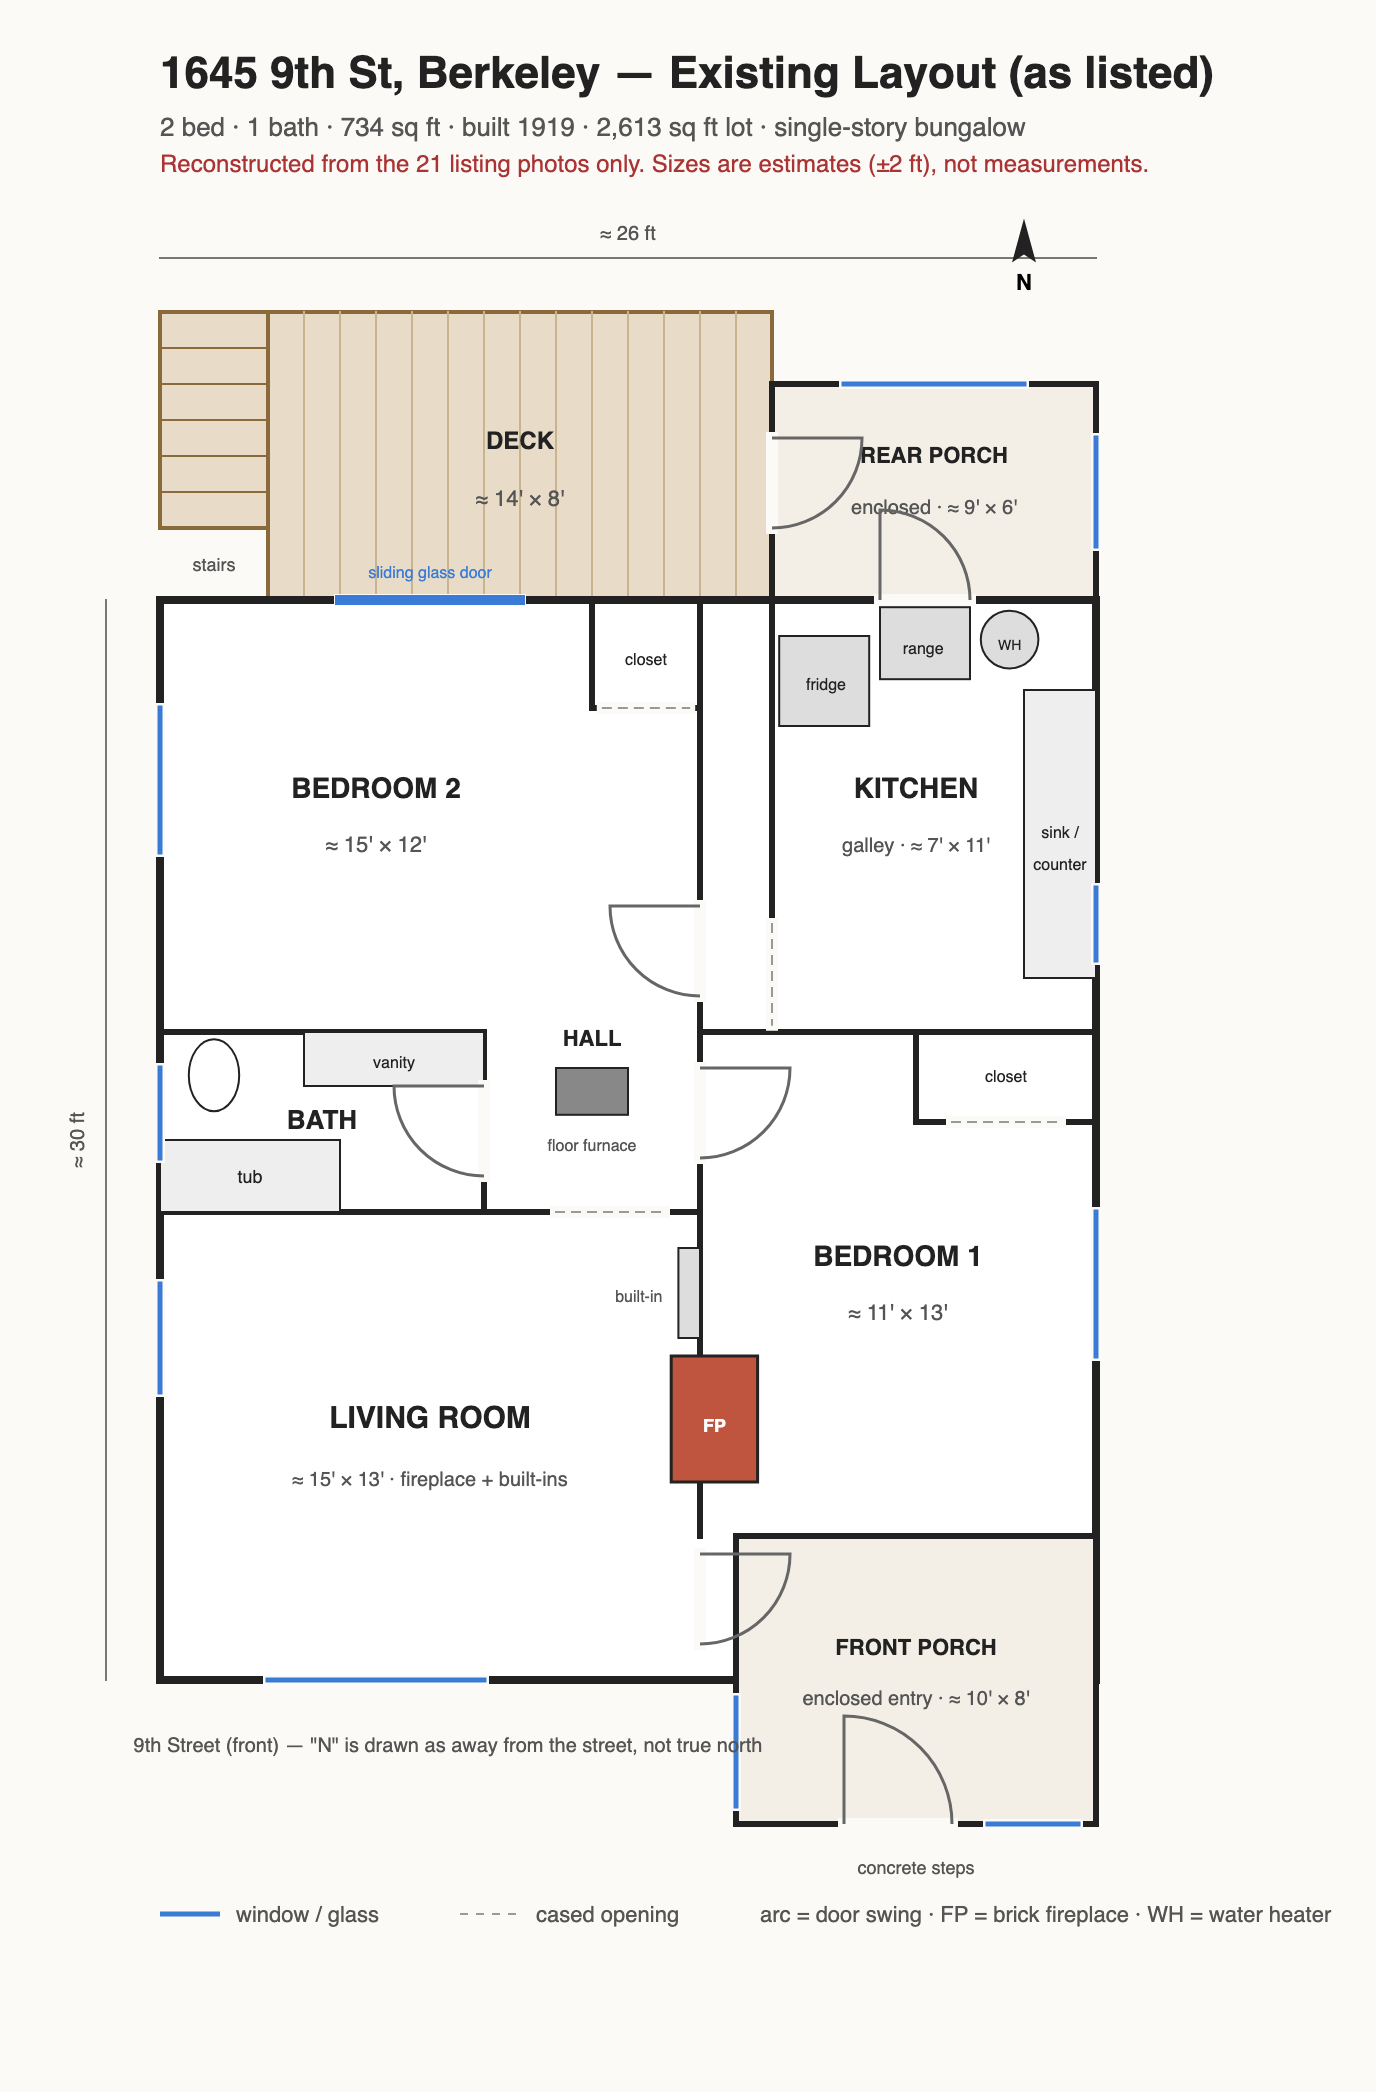
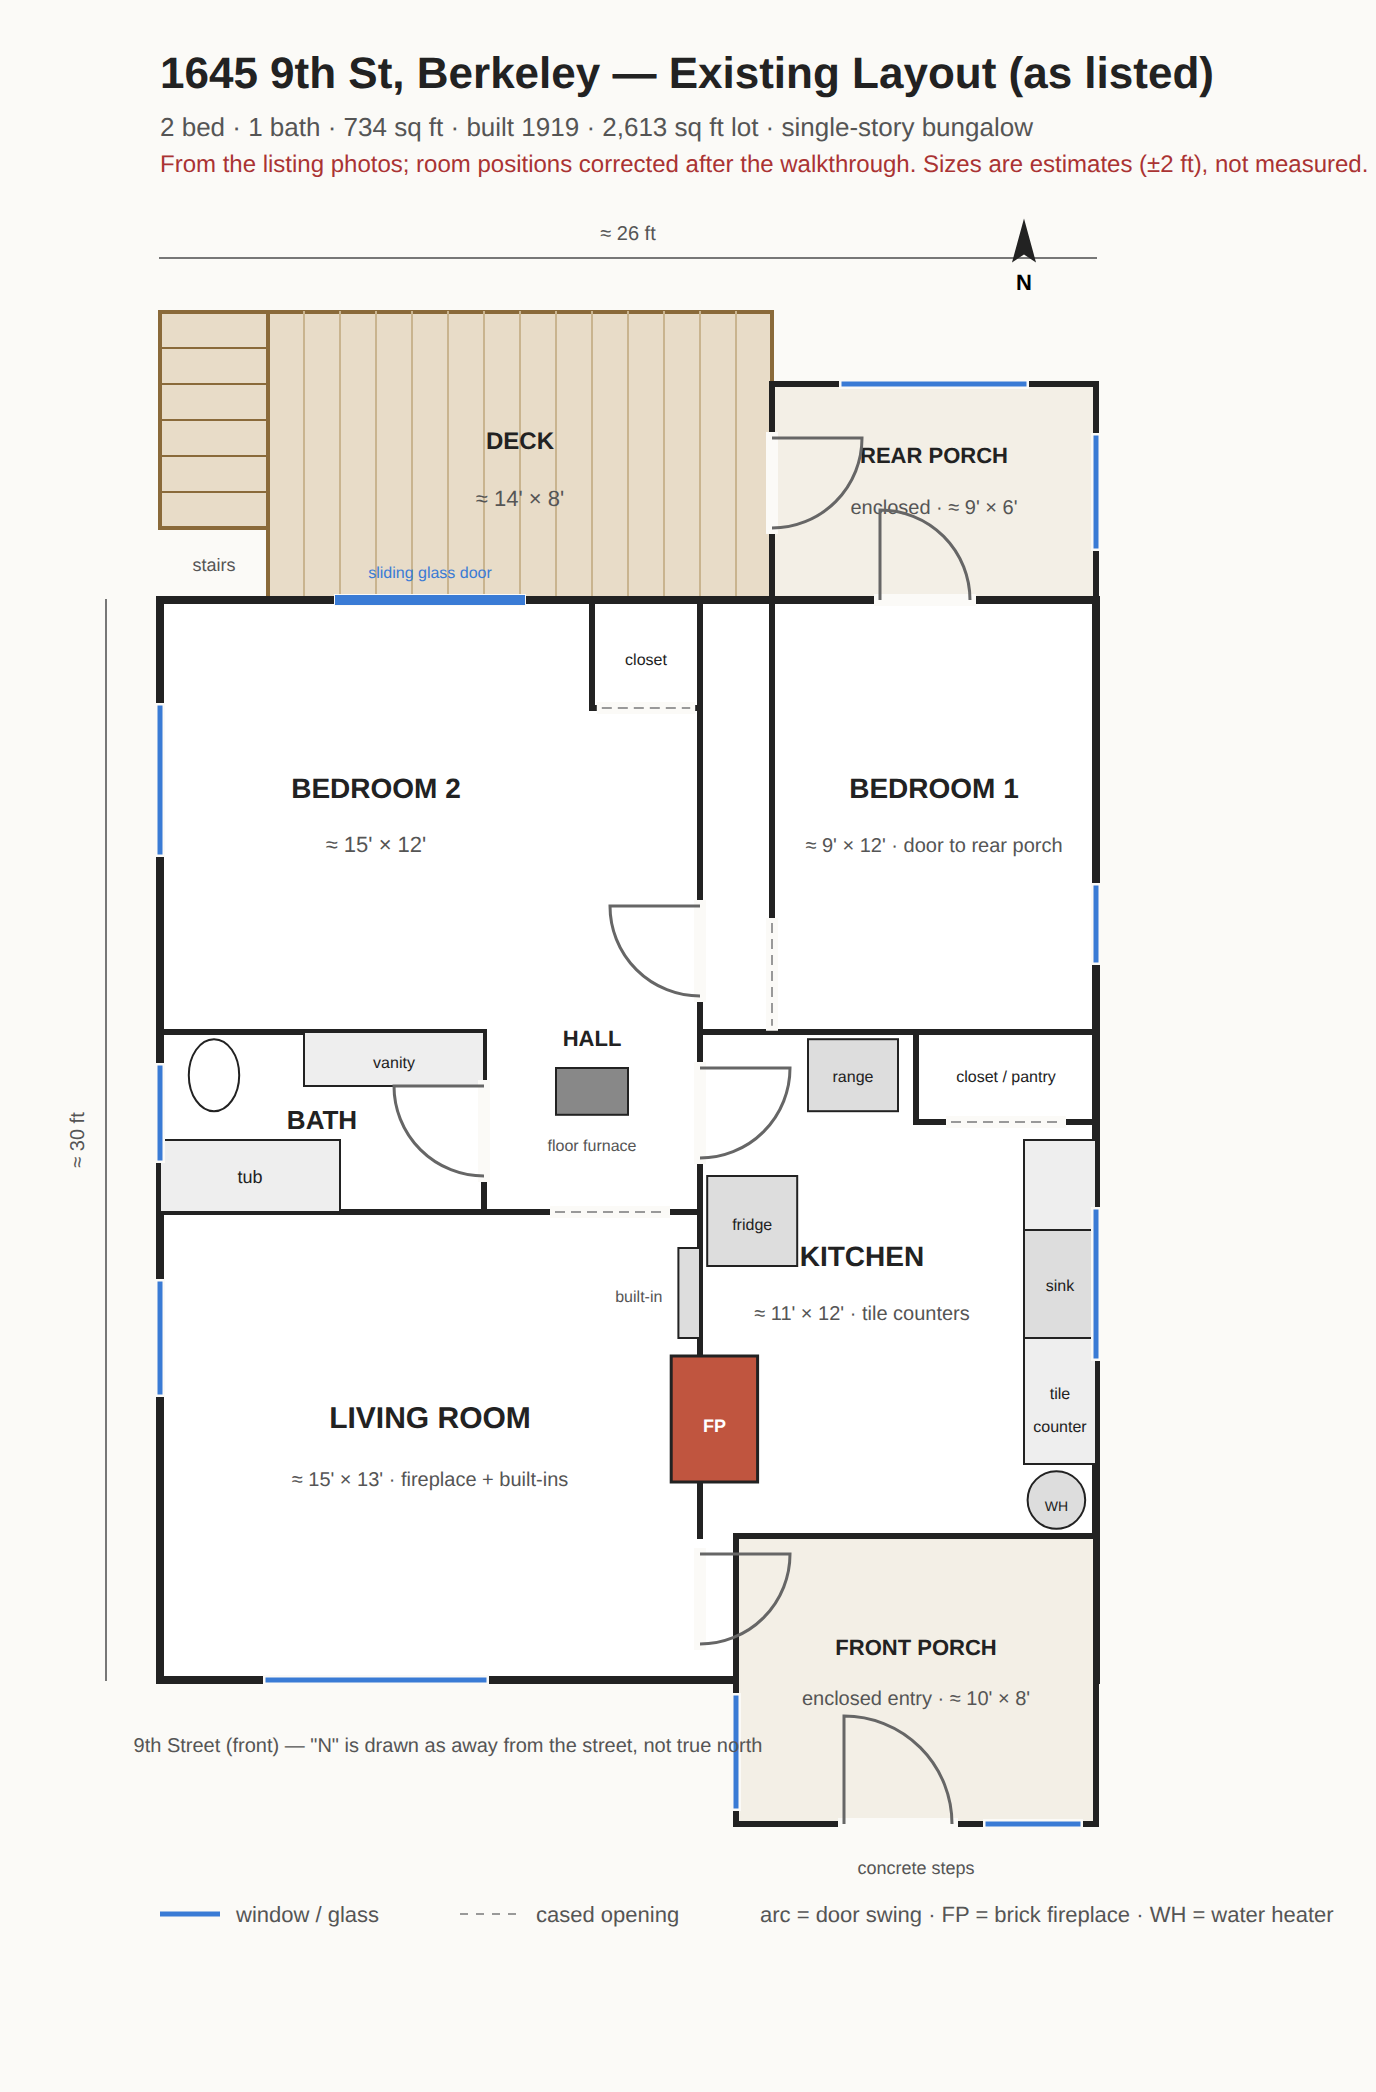
Correct existing plan: front-right room is the kitchen, bedroom 1 is rear-right
The first draft had the kitchen and bedroom 1 swapped. Per Keith's
walkthrough note, the room behind the front porch is the kitchen today
and the small rear-right room off the rear porch is bedroom 1.

- generate.py: existing sheet draws kitchen fixtures in the front-right
  room and labels the rear-right room bedroom 1; proposed sheet keeps
  its geometry (kitchen to rear-left, rear-right bedroom gains a closet)
  but the front-right room is now labeled bedroom 1 / former kitchen,
  with a two-line header explaining the move.
- Regenerated SVGs and PNGs. On Linux the PNGs are exported with
  Playwright's headless shell; chromium --headless=new clips the legend.
- CLAUDE.md, index.html: updated layout description, photo index,
  proposed-changes list, open questions, and the Linux export command.

Claude-Session: https://claude.ai/code/session_01QP4ZkLkW7cUrZ9x3HXMY7H

diff --git a/index.html b/index.html
@@ -34,18 +34,18 @@ table{border-collapse:collapse;font-size:14px}td,th{padding:4px 12px 4px 0;text-
 <div class="plan">
 <a id="plan-link" href="floor-plan/existing.png" target="_blank"><img id="plan-img" src="floor-plan/existing.png" alt="floor plan"></a>
 </div>
-<p class="sub" style="margin-top:8px">Reconstructed from listing photos, not measured. Room sizes are ±2 ft. Editable SVGs and the generator script are in <code>floor-plan/</code>.</p>
+<p class="sub" style="margin-top:8px">Reconstructed from listing photos, not measured; room positions corrected Sept 9 (front-right room is the kitchen today). Room sizes are ±2 ft. Editable SVGs and the generator script are in <code>floor-plan/</code>.</p>
 <div class="notes">
 <strong>Proposed changes</strong>
 <ul>
-<li><strong>Swap kitchen and bedroom 2.</strong> Kitchen moves to the rear-left room with the slider so it opens directly onto the deck. Becomes an eat-in kitchen, roughly 15 × 12. Bedroom 2 takes the old galley kitchen space, roughly 9 × 11, with a closet added.</li>
+<li><strong>Kitchen moves to the rear-left room with the slider</strong> so it opens directly onto the deck. Becomes an eat-in kitchen, roughly 15 × 12, sharing a wet wall with the bath.</li>
+<li><strong>Old kitchen (front-right, roughly 11 × 12) becomes bedroom 1.</strong> The rear-right bedroom stays a bedroom, becomes bedroom 2, roughly 9 × 11, with a closet added.</li>
 <li><strong>Rear porch becomes laundry / mudroom</strong>, still opening onto the deck. Water heater relocates there out of the kitchen. Open question: whether it's entered from bedroom 2, the deck only, or both.</li>
-<li>Living room, bedroom 1, bath, hall, and front porch unchanged in this pass.</li>
+<li>Living room, bath, hall, and front porch unchanged in this pass.</li>
 </ul>
 <strong>Open questions</strong>
 <ul>
-<li>Plumbing run for the new kitchen location (sink on the west wall vs. the bath side wall to share the wet wall with the bathroom).</li>
-<li>Bathroom position and bedroom 1 door placement in the existing plan are the least certain reads from the photos. Verify on a walkthrough.</li>
+<li>Room sizes and door placements are estimates from photos; no measured plan exists. Verify on the next visit.</li>
 <li>The termite report mentions a "rear half bathroom" vanity; the listing says one bath. Is there a second sink or half bath in the rear porch area?</li>
 </ul>
 <strong>Budget</strong>

diff --git a/floor-plan/generate.py b/floor-plan/generate.py
@@ -40,9 +40,10 @@ def build(variant):
     out.append(f'<text x="{OX}" y="44" font-size="22" font-weight="bold" fill="#222">1645 9th St, Berkeley — {title}</text>')
     out.append(f'<text x="{OX}" y="68" font-size="13" fill="#555">2 bed · 1 bath · 734 sq ft · built 1919 · 2,613 sq ft lot · single-story bungalow</text>')
     if proposed:
-        out.append(f'<text x="{OX}" y="86" font-size="12" fill="#1a7a3c">Change: kitchen and bedroom 2 swapped so the kitchen opens onto the deck. Everything else as existing.</text>')
+        out.append(f'<text x="{OX}" y="86" font-size="12" fill="#1a7a3c">Change: kitchen moves from the front-right room to the rear-left room with the slider, opening onto the deck.</text>')
+        out.append(f'<text x="{OX}" y="102" font-size="12" fill="#1a7a3c">Old kitchen becomes bedroom 1. Rear-right bedroom stays (now bedroom 2) and gains a closet.</text>')
     else:
-        out.append(f'<text x="{OX}" y="86" font-size="12" fill="#a33">Reconstructed from the 21 listing photos only. Sizes are estimates (±2 ft), not measurements.</text>')
+        out.append(f'<text x="{OX}" y="86" font-size="12" fill="#a33">From the listing photos; room positions corrected after the walkthrough. Sizes are estimates (±2 ft), not measured.</text>')
 
     # deck + stairs
     rect(3,-8,17,0,fill="#e8dcc8",stroke="#8a6a3a",sw=2)
@@ -80,16 +81,18 @@ def build(variant):
     label(4.5,14.7,"BATH",13); label(12,12.4,"HALL",11)
 
     if not proposed:
-        # bedroom 2 rear-left with slider; kitchen rear-right
+        # bedroom 2 rear-left with slider; bedroom 1 rear-right; kitchen front-right (per Keith, Sept 9)
         line(12,0,12,3); line(12,3,15,3); opening(12.3,3,14.7,3); label(13.5,1.8,"closet",8,False)
         door(15,8.5,2.5,'w'); opening(17,9,17,11.8); door(20,0,2.5,'n')
-        rect(17.2,1,19.7,3.5,fill="#ddd",stroke="#222",sw=1); label(18.5,2.5,"fridge",8,False)
-        rect(20,0.2,22.5,2.2,fill="#ddd",stroke="#222",sw=1); label(21.2,1.5,"range",8,False)
-        circle(23.6,1.1,0.8); label(23.6,1.4,"WH",7,False)
-        rect(24,2.5,26,10.5,fill="#eee",stroke="#222",sw=1); label(25,6.6,"sink /",8,False); label(25,7.5,"counter",8,False)
         line(5,0,10,0,stroke="#fbfaf7",sw=6); line(5,0,10,0,stroke="#3a7bd5",sw=5); label(7.5,-0.6,"sliding glass door",8,False,"#3a7bd5")
         label(6,5.5,"BEDROOM 2",14); label(6,7,"≈ 15' × 12'",11,False,"#555")
-        label(21,5.5,"KITCHEN",14); label(21,7,"galley · ≈ 7' × 11'",10,False,"#555")
+        label(21.5,5.5,"BEDROOM 1",14); label(21.5,7,"≈ 9' × 12' · door to rear porch",10,False,"#555")
+        # kitchen fixtures, front-right room
+        rect(24,15,26,24,fill="#eee",stroke="#222",sw=1); label(25,22.2,"tile",8,False); label(25,23.1,"counter",8,False)
+        rect(24,17.5,26,20.5,fill="#ddd",stroke="#222",sw=1); label(25,19.2,"sink",8,False)
+        rect(18,12.2,20.5,14.2,fill="#ddd",stroke="#222",sw=1); label(19.25,13.4,"range",8,False)
+        rect(15.2,16,17.7,18.5,fill="#ddd",stroke="#222",sw=1); label(16.45,17.5,"fridge",8,False)
+        circle(24.9,25,0.8); label(24.9,25.3,"WH",7,False)
     else:
         # kitchen rear-left, eat-in, opens to deck; bedroom 2 rear-right
         line(4,0,11,0,stroke="#fbfaf7",sw=6); line(4,0,11,0,stroke="#3a7bd5",sw=5); label(7.5,-0.6,"sliding / French door to deck",8,False,"#3a7bd5")
@@ -101,7 +104,7 @@ def build(variant):
         rect(12.3,0.2,14.8,2.2,fill="#ddd",stroke="#222",sw=1); label(13.55,1.4,"range",7,False)
         rect(5,4,10,7,fill="#f4e9d0",stroke="#8a6a3a",sw=1); label(7.5,5.8,"table / island",8,False,"#555")
         label(7.5,9.6,"KITCHEN (eat-in)",14); label(7.5,11,"≈ 15' × 12' · opens to deck",10,False,"#555")
-        # bedroom 2 (former kitchen)
+        # bedroom 2 (was bedroom 1; gains a closet)
         door(17,9,2.5,'e')                                      # hall -> bedroom 2
         line(17,0,17,3, stroke="#222"); line(17,3,20,3); line(20,0,20,3); opening(17.3,3,19.7,3); label(18.5,1.8,"closet",8,False)
         door(22,0,2.5,'n')                                      # bedroom 2 -> laundry/mudroom
@@ -110,7 +113,10 @@ def build(variant):
     # shared: bedroom 1, living room, doors
     door(9,13.5,2.5,'w'); door(15,13,2.5,'e'); opening(22,14.5,25,14.5); opening(11,17,14,17); door(15,26.5,2.5,'e')
     window(0,3,0,7); window(0,13,0,15.5); window(0,19,0,22); window(3,30,9,30); window(26,17,26,21); window(26,8,26,10)
-    label(20.5,18.5,"BEDROOM 1",14); label(20.5,20,"≈ 11' × 13'",11,False,"#555"); label(23.5,13.4,"closet",8,False)
+    if proposed:
+        label(19.5,18.5,"BEDROOM 1",14); label(19.5,20,"≈ 11' × 12' · former kitchen",10,False,"#555"); label(23.5,13.4,"closet",8,False)
+    else:
+        label(19.5,18.5,"KITCHEN",14); label(19.5,20,"≈ 11' × 12' · tile counters",10,False,"#555"); label(23.5,13.4,"closet / pantry",8,False)
     label(7.5,23,"LIVING ROOM",15); label(7.5,24.6,"≈ 15' × 13' · fireplace + built-ins",10,False,"#555")
     # dims / north / street / legend
     line(-1.5,0,-1.5,30,stroke="#777",sw=1); p=P(-2.1,15)

diff --git a/CLAUDE.md b/CLAUDE.md
@@ -28,10 +28,10 @@ Photos: `photos/1645-9th-st/` (21 images, Zillow gallery order, ~1440x960).
 Rough photo index:
 - 01–03 front exterior, 05 side yard, 21 backyard and deck
 - 04, 06, 07, 09 living room (brick fireplace, built-ins, picture rail)
-- 08, 10, 12 kitchen (galley, tile counter, water heater in kitchen)
+- 08, 10, 12 kitchen (front-right room behind the porch; tile counter, water heater in kitchen)
 - 11 rear enclosed porch (unfinished)
 - 13, 14 bathroom
-- 15, 16, 17 bedroom 1 (front, east side)
+- 15, 16, 17 bedroom 1 (rear-right, door to the rear porch)
 - 18, 19, 20 bedroom 2 (rear, sliding door to deck)
 
 ## Floor plans
@@ -41,15 +41,19 @@ Rough photo index:
 - `floor-plan/generate.py` — generates both SVGs; edit this, run it, then re-export PNGs with headless Chrome (see below)
 - `index.html` — shareable page with an existing/proposed toggle and both photo galleries, published at https://keithmancuso.github.io/1645-9th-st/
 
-The existing plan was reconstructed from the listing photos only, not measured. Treat room sizes as ±2 ft. Layout as drawn: living room front-left with fireplace on the wall shared with the front porch and bedroom 1; enclosed front porch front-right; bedroom 1 behind the porch; small central hall with a floor furnace; bathroom on the left; galley kitchen rear-right; bedroom 2 rear-left with a slider to the deck; unfinished enclosed rear porch off the kitchen. Bathroom position and bedroom 1 door placement are the least certain parts.
+The existing plan was reconstructed from the listing photos only, not measured. Treat room sizes as ±2 ft. Layout as drawn: living room front-left with fireplace on the wall shared with the front porch and the kitchen; enclosed front porch front-right; **kitchen behind the porch (front-right, ≈11×12)**; small central hall with a floor furnace; bathroom on the left; **bedroom 1 rear-right (≈9×12) with a door to the rear porch**; bedroom 2 rear-left with a slider to the deck; unfinished enclosed rear porch off bedroom 1. Bathroom position and door placements are the least certain parts.
 
-### Proposed changes (as of Sept 5, 2026)
+Correction, Sept 9: the first draft had the kitchen and bedroom 1 swapped (kitchen rear-right, bedroom 1 front-right). Keith confirmed after the walkthrough that the front-right room is the kitchen today. Room sizes still need checking against a real plan; none was found in the listing or the disclosure package.
 
-1. **Swap kitchen and bedroom 2.** Kitchen moves to the rear-left room with the slider so it opens directly onto the deck (eat-in, ≈15×12). Bedroom 2 takes the old galley kitchen space (≈9×11) with a closet added. Reason: don't want to walk through a bedroom to reach the yard.
-2. **Rear porch becomes laundry / mudroom**, still opening onto the deck; water heater relocates there. Open question: entered from bedroom 2, the deck only, or both.
-3. Living room, bedroom 1, bath, hall, front porch unchanged in this pass.
+### Proposed changes (as of Sept 9, 2026)
 
-Open questions: plumbing run for the relocated kitchen; verify bathroom position and bedroom 1 door on a walkthrough; confirm whether the termite report's "rear half bathroom" means there is a second sink/half bath in the rear porch area. The floor furnace is red-tagged by PG&E (Aug 2026) and comes out; heating will be mini-splits (see `BUDGET.md`).
+1. **Kitchen moves to the rear-left room with the slider** so it opens directly onto the deck (eat-in, ≈15×12). Reason: don't want to walk through a bedroom to reach the yard. The new kitchen shares its south wall with the bathroom, so the wet wall is shared.
+2. **Old kitchen (front-right, ≈11×12) becomes bedroom 1.** Its plumbing gets abandoned.
+3. **Rear-right bedroom stays a bedroom** and becomes bedroom 2 (≈9×11) with a closet added.
+4. **Rear porch becomes laundry / mudroom**, still opening onto the deck; water heater relocates there. Open question: entered from bedroom 2, the deck only, or both.
+5. Living room, bath, hall, front porch unchanged in this pass.
+
+Open questions: verify room sizes and door placements on the next visit (no measured plan exists); confirm whether the termite report's "rear half bathroom" means there is a second sink/half bath in the rear porch area, which now sits off bedroom 1. The floor furnace is red-tagged by PG&E (Aug 2026) and comes out; heating will be mini-splits (see `BUDGET.md`).
 
 ## Renovation reference — 2435 Valley St, Berkeley, CA 94702
 
@@ -76,4 +80,10 @@ Photos: `photos/2435-valley-st-reference/` (87 images, Zillow gallery order, 153
   cd floor-plan && python3 generate.py
   for v in existing proposed; do "/Applications/Google Chrome.app/Contents/MacOS/Google Chrome" --headless=new --disable-gpu --hide-scrollbars --force-device-scale-factor=2 --window-size=688,1046 --screenshot="$PWD/$v.png" "file://$PWD/$v.svg"; done
   ```
+- On Linux (Claude Code on the web), export PNGs with Playwright's headless shell instead; the `chromium --headless=new` binary there clips the bottom ~90 px of the sheet:
+
+  ```
+  for v in existing proposed; do /opt/pw-browsers/chromium_headless_shell-*/chrome-linux/headless_shell --no-sandbox --disable-gpu --hide-scrollbars --force-device-scale-factor=2 --window-size=688,1046 --screenshot="$PWD/$v.png" "file://$PWD/$v.svg"; done
+  ```
+
 - `index.html` galleries are static lists; regenerate if photos are added.
